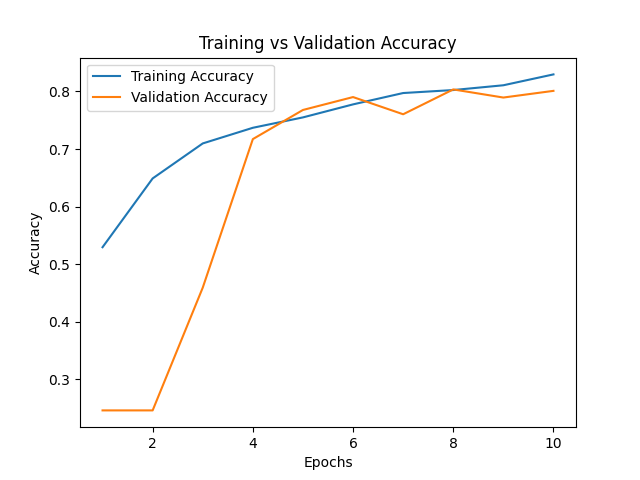
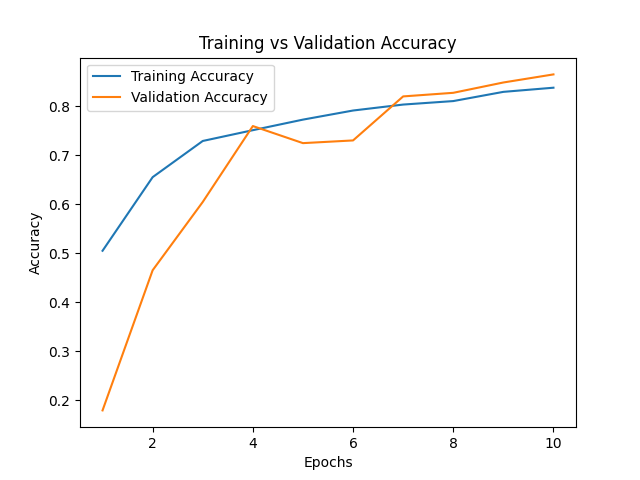
Minor revisions

diff --git a/archivist.py b/archivist.py
@@ -104,18 +104,19 @@ def run_archivist(source_dir, sorted_dir, review_dir, collection_name):
         )
 
     i = 0   # Debug first 10 images
-    for root, dirs, files in os.walk(CHAOS_DIR):
+    for root, dirs, files in os.walk(source_dir):
         for filename in files:
             if not filename.lower().endswith((".png", ".jpg", ".jpeg")):
                 continue
             image_path = os.path.join(root, filename)
             img = preprocess_for_interface(image_path)
-            vector = embedding_model.predict(img)[0]
+            vector = embedding_model.predict(img, verbose=0)[0]
             results = collection.query(
                 query_embeddings=[vector.tolist()],
                 n_results=TOP_K
             )
-
+            if i <= 10:
+                print(results)
             neighbors = results['metadatas'][0]
             similarities = results['distances'][0]  # Chroma usually gives distances
             # Chroma returns cosine distance:
@@ -158,6 +159,7 @@ def run_archivist(source_dir, sorted_dir, review_dir, collection_name):
                 print("  Top neighbors:")
                 for n, s in zip(neighbors, similarities):
                     print(f"    {n['label']} (sim={s:.2f})")
+            i += 1
 
     results_file.close()
     print("Analysis results saved to analysis/run_results.csv")
@@ -172,6 +174,7 @@ def run_archivist_on_c():
 
 def main():
     run_archivist_on_c()
+    # run_archivist_on_b()
 
 if __name__ == "__main__":
     main()

diff --git a/train.py b/train.py
@@ -33,7 +33,8 @@ RUN_BOTH = True        # If True, runs training on both Dataset A and combined A
 # Training callbacks
 early_stop = tf.keras.callbacks.EarlyStopping(
     monitor="val_loss",
-    patience=2,
+    patience=5,
+    min_delta=0.01,
     restore_best_weights=True
 )
 
@@ -74,7 +75,7 @@ def train_on_dataset(X, y, label_map, collection_name):
     )
 
     os.makedirs("analysis", exist_ok=True)
-    with open("analysis/training_history.json", "w") as f:
+    with open(f"analysis/training_history_{collection_name}.json", "w") as f:
         json.dump(history.history, f)
     
     print("Saved training history to analysis/training_history.json")
@@ -102,7 +103,7 @@ def train_on_dataset(X, y, label_map, collection_name):
         pass
     collection = client.get_or_create_collection(
         name = collection_name,
-        metadata={"metric": "cosine"}   # Cosine is the default
+        metadata={"hnsw:space": "cosine"}
     )
 
     # Prepare metadata
@@ -114,6 +115,7 @@ def train_on_dataset(X, y, label_map, collection_name):
     for batch_idx, batch_slice in enumerate(batch_iterable(range(num_samples), EMBEDDING_BATCH_SIZE)):
         batch_X = X[batch_slice]
         batch_embeddings = embedding_model.predict(batch_X, batch_size=EMBEDDING_BATCH_SIZE, verbose=0)
+        batch_embeddings = tf.math.l2_normalize(batch_embeddings, axis=1).numpy()   # Normalize embeddings
 
         # Prepare IDs and metadata
         batch_ids = [f"img_{i}" for i in batch_slice]

diff --git a/analysis/plot_training_curves.py b/analysis/plot_training_curves.py
@@ -2,7 +2,8 @@ import json
 import matplotlib.pyplot as plt
 import os
 
-HISTORY_PATH = "analysis/training_history.json"
+HISTORY_PATH = "analysis/training_history_dataset-A-embeddings.json"
+# HISTORY_PATH_2 = "analysis/training_history_dataset-AB-embeddings.json"
 
 if not os.path.exists(HISTORY_PATH):
     raise FileNotFoundError(
